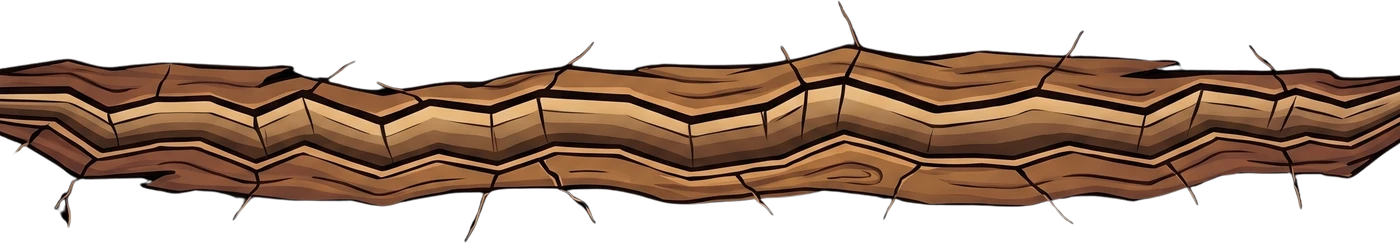
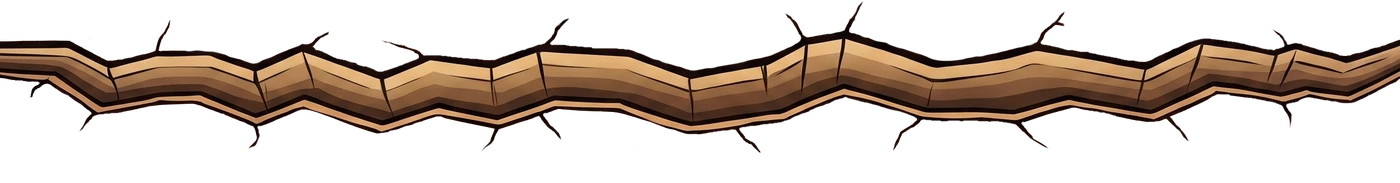
Yeni yer yarma görseli (v0.371)
Claude-Session: https://claude.ai/code/session_01TdPikv4FZnmzSqLXYECsoM

diff --git a/www/index.html b/www/index.html
@@ -1,7 +1,7 @@
 <!doctype html>
 <html lang="en"><head><meta charset="utf-8"><meta name="viewport" content="width=device-width,initial-scale=1,viewport-fit=cover,user-scalable=no">
 <title>Popeye Fighter</title>
-<link rel="stylesheet" href="css/oyun.css?v=0.370">
+<link rel="stylesheet" href="css/oyun.css?v=0.371">
 </head><body>
 
 
@@ -36,33 +36,33 @@
 </div></div>
 <div id="yuk" data-l="yuk"></div>
 
-<script src="js/dil.js?v=0.370"></script>
-<script src="js/ayar.js?v=0.370"></script>
-<script src="js/girdi.js?v=0.370"></script>
-<script src="js/el.js?v=0.370"></script>
-<script src="js/ozel.js?v=0.370"></script>
-<script src="js/mermi.js?v=0.370"></script>
-<script src="js/dusman_kur.js?v=0.370"></script>
-<script src="js/ses.js?v=0.370"></script>
-<script src="js/ispanak.js?v=0.370"></script>
-<script src="js/varil.js?v=0.370"></script>
-<script src="js/efekt.js?v=0.370"></script>
-<script src="js/cevre.js?v=0.370"></script>
-<script src="js/savas.js?v=0.370"></script>
-<script src="js/korsan.js?v=0.370"></script>
-<script src="js/hud.js?v=0.370"></script>
-<script src="js/kombo.js?v=0.370"></script>
-<script src="js/yetenek.js?v=0.370"></script>
-<script src="js/anti.js?v=0.370"></script>
-<script src="js/zipkin.js?v=0.370"></script>
-<script src="js/menu.js?v=0.370"></script>
-<script src="js/yara_veri.js?v=0.370"></script>
-<script src="js/yara.js?v=0.370"></script>
-<script src="js/dyara_veri.js?v=0.370"></script>
-<script src="js/dyara.js?v=0.370"></script>
-<script src="js/oyuncu.js?v=0.370"></script>
-<script src="js/demo.js?v=0.370"></script>
-<script src="js/dongu.js?v=0.370"></script>
+<script src="js/dil.js?v=0.371"></script>
+<script src="js/ayar.js?v=0.371"></script>
+<script src="js/girdi.js?v=0.371"></script>
+<script src="js/el.js?v=0.371"></script>
+<script src="js/ozel.js?v=0.371"></script>
+<script src="js/mermi.js?v=0.371"></script>
+<script src="js/dusman_kur.js?v=0.371"></script>
+<script src="js/ses.js?v=0.371"></script>
+<script src="js/ispanak.js?v=0.371"></script>
+<script src="js/varil.js?v=0.371"></script>
+<script src="js/efekt.js?v=0.371"></script>
+<script src="js/cevre.js?v=0.371"></script>
+<script src="js/savas.js?v=0.371"></script>
+<script src="js/korsan.js?v=0.371"></script>
+<script src="js/hud.js?v=0.371"></script>
+<script src="js/kombo.js?v=0.371"></script>
+<script src="js/yetenek.js?v=0.371"></script>
+<script src="js/anti.js?v=0.371"></script>
+<script src="js/zipkin.js?v=0.371"></script>
+<script src="js/menu.js?v=0.371"></script>
+<script src="js/yara_veri.js?v=0.371"></script>
+<script src="js/yara.js?v=0.371"></script>
+<script src="js/dyara_veri.js?v=0.371"></script>
+<script src="js/dyara.js?v=0.371"></script>
+<script src="js/oyuncu.js?v=0.371"></script>
+<script src="js/demo.js?v=0.371"></script>
+<script src="js/dongu.js?v=0.371"></script>
 </script>
 
 </body>

diff --git a/www/js/ayar.js b/www/js/ayar.js
@@ -1,9 +1,9 @@
 'use strict';
 // Ayarlar, sürüm, görsel yükleyici, ekran boyutu, oyuncu durumu (S)
 // ---------- Görseller: hepsi tek yükleyiciyle; tamamı inince oyun başlar ----------
-const OYUN_SURUM='v0.370';      // ekrandaki sürüm (her değişiklikte artar)
+const OYUN_SURUM='v0.371';      // ekrandaki sürüm (her değişiklikte artar)
 document.getElementById('surum').textContent=OYUN_SURUM;
-const SURUM='?v=92';                 // görsel değişince artır: tarayıcı eski önbelleği kullanmasın
+const SURUM='?v=93';                 // görsel değişince artır: tarayıcı eski önbelleği kullanmasın
 const KP=['kafa','govde','kalca','ust','on','elN','elF','uy','bacak','bot'];      // korsan parça seti (k: yumruklu, b: bıçaklı, p: tabancalı kaptan)
 const ADLAR=['el_isp_n','el_isp_f','kalca','ustkol','onkol','onkol2','uyluk','altpan','bacak_bot','el_yum','el_yum_f','el_ac_n','el_ac_f','el_pN','el_pF','p_mermi','p_ates','h_elB','h_kanca','h_zincir','z_dolu','z_bos','z_mizrak','z_ip']      // z_: zıpkın (tabanca dolu/boş, mızrak, halat)
   .concat([...Array(11).keys()].map(i=>'govde'+i),...['k_','b_','p_','h_'].map(q=>KP.map(n=>q+n)));
